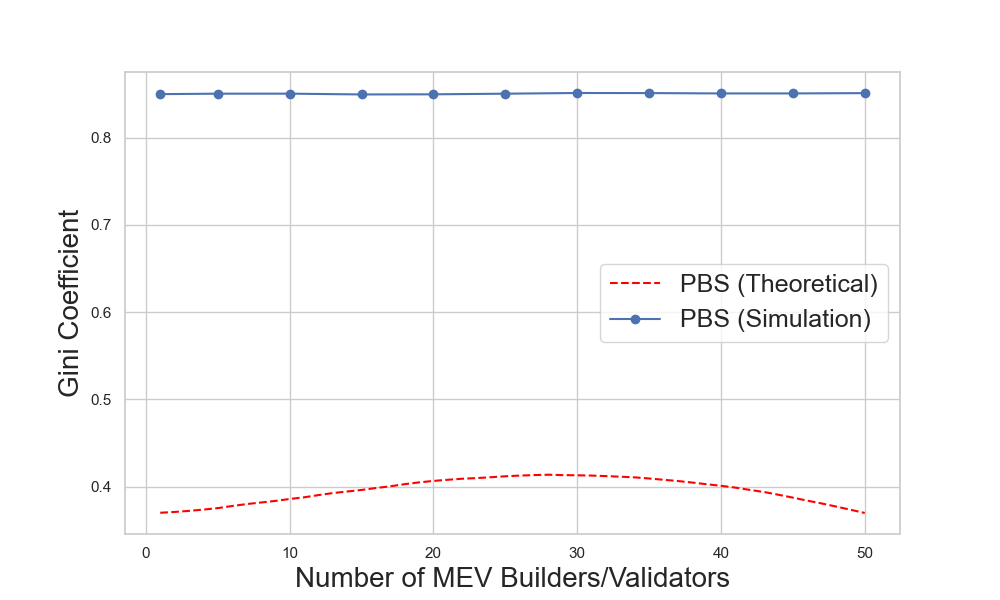
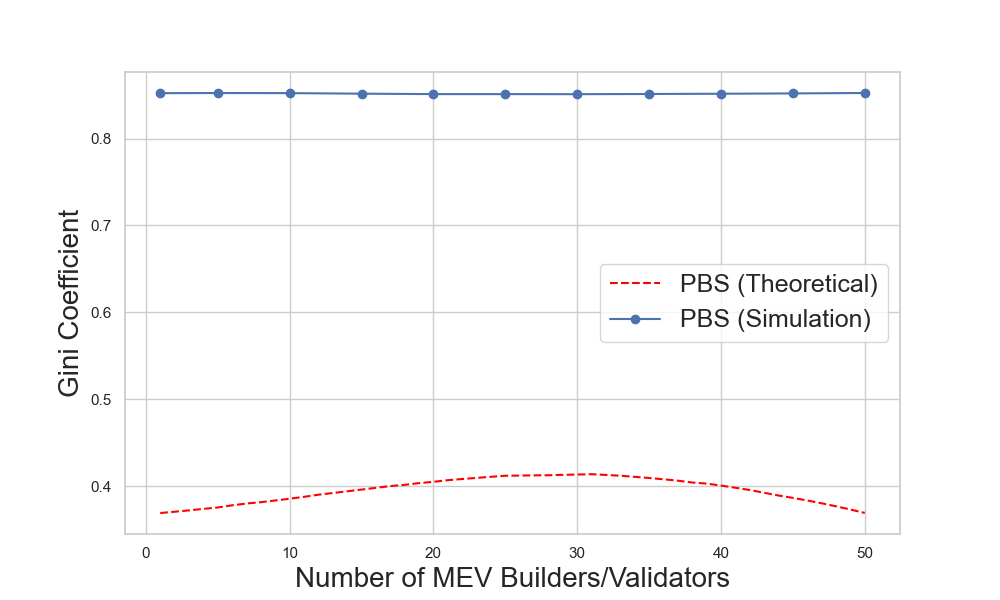
clean up

diff --git a/plots/theory/gini.py b/plots/theory/gini.py
@@ -22,7 +22,7 @@ def gini_coefficient(profits):
 
 # Parameters
 num_builders = 50
-num_simulations = 100  # Number of simulation runs
+num_simulations = 50  # Number of simulation runs (adjusted to 50 based on your data)
 mu_mev = 10
 sigma_mev = 2
 mu_gas = 5
@@ -60,22 +60,32 @@ def compute_gini(array):
     return ((np.sum((2 * index - n - 1) * array)) / (n * np.sum(array)))
 
 def load_profits(data_dir, mev_counts):
-    profits = {'pbs': {}}
+    profits = {mev_count: [] for mev_count in mev_counts}
+    
     for mev_count in mev_counts:
-        pbs_dir = os.path.join(data_dir, f'pbs/mev{mev_count}/transaction_data_pbs.csv')
+        for run in range(1, 51):  # Loop through each run (adjusted to 50 runs)
+            run_dir = os.path.join(data_dir, f'run{run}/mev{mev_count}/pbs')
+            pbs_file = os.path.join(run_dir, 'transaction_data_pbs.csv')
 
-        if os.path.exists(pbs_dir):
-            pbs_df = pd.read_csv(pbs_dir)
-            pbs_df['fee'] = pd.to_numeric(pbs_df['fee'], errors='coerce')
+            if os.path.exists(pbs_file):
+                pbs_df = pd.read_csv(pbs_file)
+                pbs_df['fee'] = pd.to_numeric(pbs_df['fee'], errors='coerce')
 
-            pbs_profits = pbs_df.groupby('creator_id')['fee'].sum().values
-            # Remove negative profits and NaNs
-            pbs_profits = pbs_profits[np.isfinite(pbs_profits) & (pbs_profits >= 0)]
+                pbs_profits = pbs_df.groupby('creator_id')['fee'].sum().values
+                # Remove negative profits and NaNs
+                pbs_profits = pbs_profits[np.isfinite(pbs_profits) & (pbs_profits >= 0)]
 
-            profits['pbs'][mev_count] = pbs_profits
-        else:
-            print(f"Files for MEV count {mev_count} not found. Skipping...")
+                # Ensure only top 50 profits are selected if there are more than 50 builders
+                if len(pbs_profits) > num_builders:
+                    pbs_profits = np.sort(pbs_profits)[-num_builders:]  # Keep the largest 50 values
 
+                # Make sure we account for all 50 builders, including those with zero profits
+                full_profits = np.zeros(num_builders)
+                full_profits[:len(pbs_profits)] = pbs_profits
+                profits[mev_count].append(full_profits)
+            else:
+                print(f"File not found for run {run}, MEV count {mev_count}. Skipping...")
+    
     return profits
 
 def plot_gini_coefficient(data_dir, mev_counts, gini_values_smooth_theory, mev_builders_range):
@@ -84,19 +94,10 @@ def plot_gini_coefficient(data_dir, mev_counts, gini_values_smooth_theory, mev_b
     gini_coefficients_pbs = []
 
     for mev_count in mev_counts:
-        if mev_count in profits['pbs']:
+        if mev_count in profits:
             total_ginis = []
-            for _ in range(num_simulations):
-                selected_builders = np.zeros(num_builders)
-                profits_pbs = profits['pbs'][mev_count]
-
-                if len(profits_pbs) < num_builders:
-                    # If fewer builders are selected, the rest have zero profits
-                    full_profits = np.concatenate((profits_pbs, np.zeros(num_builders - len(profits_pbs))))
-                else:
-                    full_profits = profits_pbs
-
-                gini = gini_coefficient(full_profits)
+            for profit_distribution in profits[mev_count]:
+                gini = gini_coefficient(profit_distribution)
                 total_ginis.append(gini)
 
             gini_coefficients_pbs.append(np.mean(total_ginis))
@@ -121,7 +122,7 @@ if __name__ == "__main__":
     mev_builders_range = np.arange(1, num_builders + 1)
 
     # Simulated part
-    data_dir = 'data/vary_mev'
+    data_dir = 'data/100_runs'
     mev_counts = [1, 5, 10, 15, 20, 25, 30, 35, 40, 45, 50]
 
     plot_gini_coefficient(data_dir, mev_counts, gini_values_smooth_theory, mev_builders_range)
